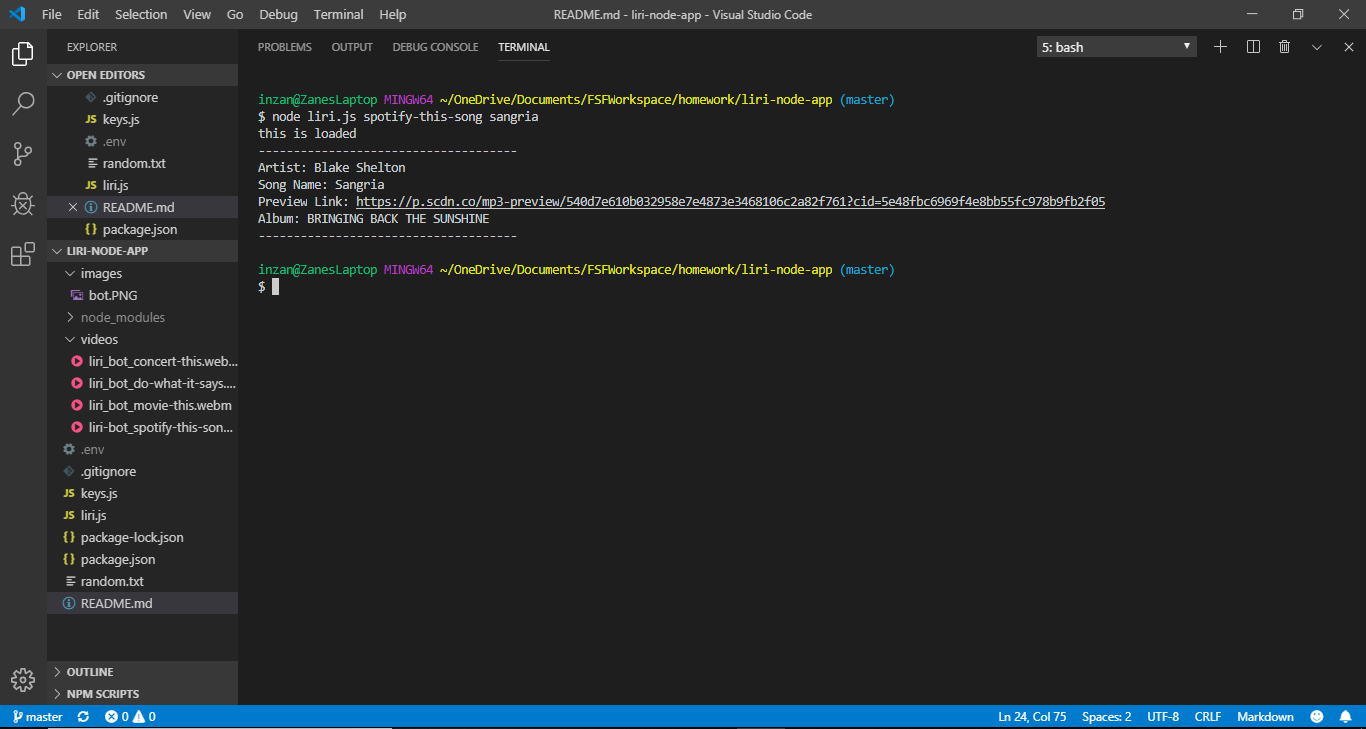
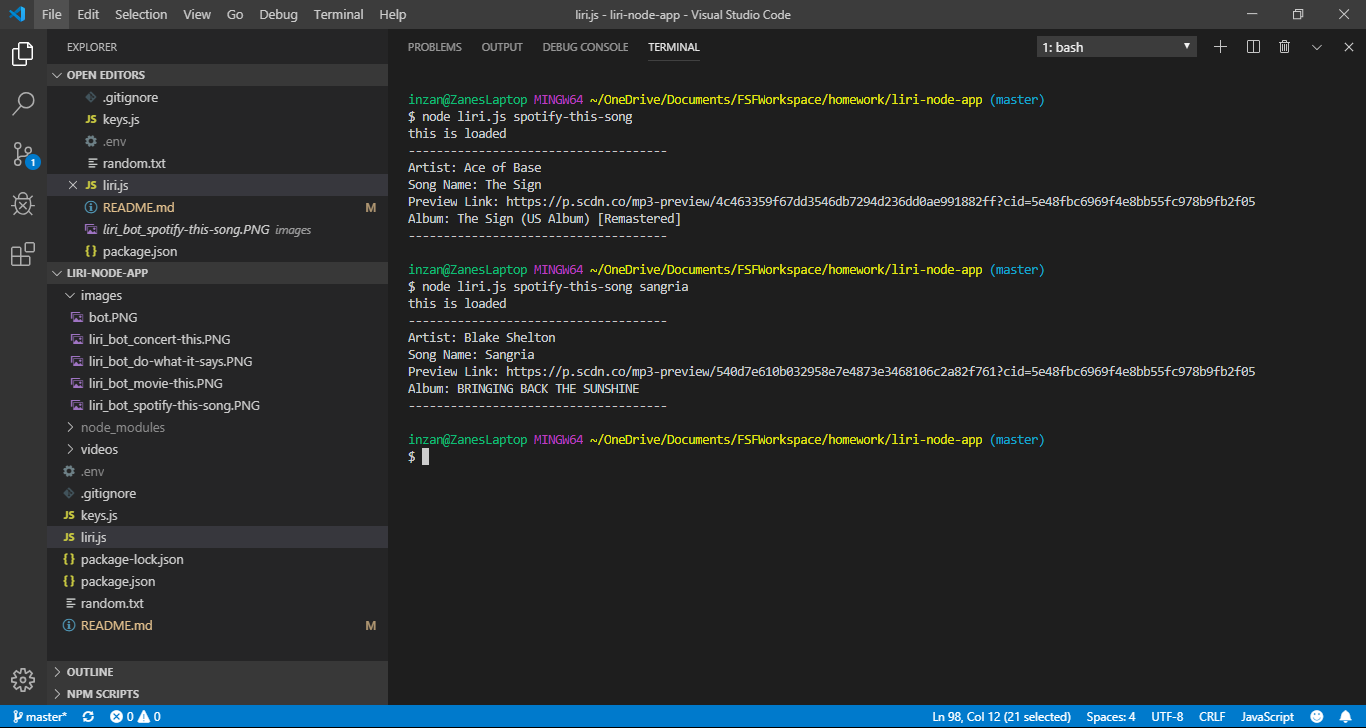
updated screenshot for spotify-this-song and update readme

diff --git a/README.md b/README.md
@@ -46,8 +46,10 @@
    * A preview link of the song from Spotify
    * The album that the song is from
 
+Note: If no song is specified in the command the results return the wildcard song "The Sign" by "Ace of Base".
+
  **$ node liri.js do-what-it-says**
- * This will look in the random.txt file for the song there and then use the Spotify API to return the same information as the spotify-this-song command
+ * This will look in the random.txt file for the song there and then use the Spotify API to return the same information as the spotify-this-song command.
 
  
 
